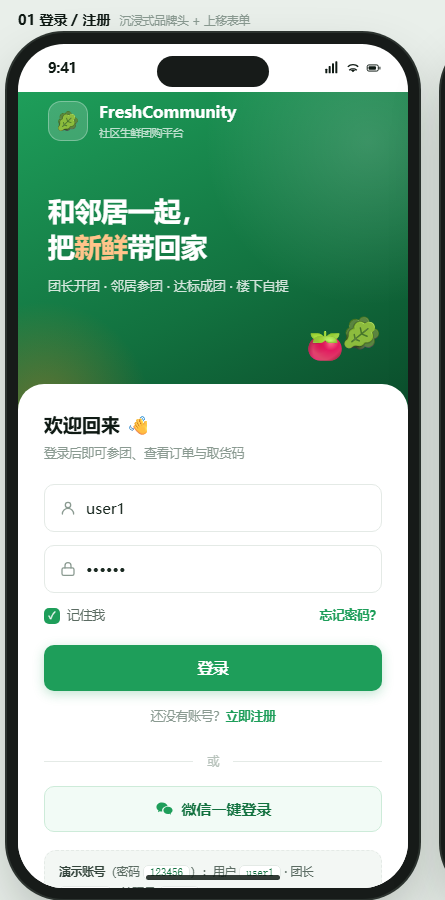
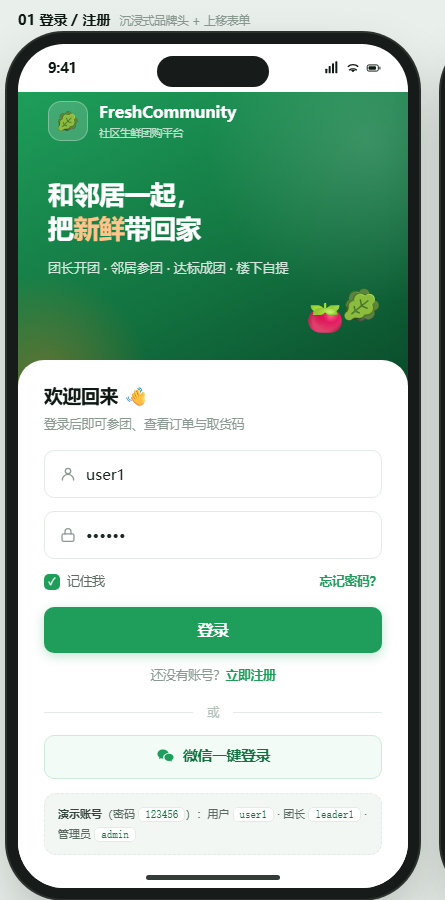
docs(ui): 补充设计方案移动端章节并修正两处设计问题
- design-spec.md 新增第 8 章「移动端适配设计」：与桌面端的结构差异对照、
  4 个移动端独有设计、11 屏清单、落地要点（768px 断点 / 安全区 / :active 反馈）
- 修正登录页：压缩 hero 高度与各处间距，底部「演示账号」框不再被 844px 裁切
- 修正确认下单页：金额明细改为自洽（原价 ¥39.80 − 优惠 ¥14.00 = ¥25.80）
- 预览图：新增消息中心单屏图，清理两张重复文件

diff --git a/docs/ui-design/design-spec.md b/docs/ui-design/design-spec.md
@@ -183,18 +183,74 @@
 
 ---
 
-## 8. 交付物
+## 8. 移动端适配设计（390 × 844）
 
-| 文件 | 说明 |
-| --- | --- |
-| `docs/ui-design/prototype.html` | **高保真可交互原型**，含设计系统与 11 个关键界面，顶部标签可切换，双击即可在浏览器打开 |
-| `docs/ui-design/design-spec.md` | 本文档 —— 设计依据、原则、规范与落地建议 |
+> 配套原型见 [`prototype-mobile.html`](./prototype-mobile.html)
+
+### 8.1 为什么移动端才是主战场
+
+社区团购的真实链路是：**团长在微信群里发链接 → 邻居在手机上点开 → 当场决定跟不跟 → 线下到店自提时掏手机出示取货码**。四个关键动作里有三个发生在手机上。桌面端更像是团长和管理员的后台工具。因此移动端不是"缩小版桌面端"，需要独立设计。
+
+### 8.2 移动端与桌面端的结构差异
+
+| 维度 | 桌面端 | 移动端 |
+| --- | --- | --- |
+| 导航 | 左侧 236px 固定侧边栏 | **底部 Tab Bar**（用户/团长 4 项，管理 3 项） |
+| 顶部 | 面包屑 + 全局搜索 + 铃铛 | **沉浸式绿头**：定位 + 搜索 + 铃铛，渐变延伸至状态栏 |
+| 卡片 | 3 列网格 | **单列**，横向滚动承载"马上成团" |
+| 主操作 | 卡片内按钮 | **底部固定操作栏**（含安全区内边距） |
+| 商品图 | 132–340px | 详情页 288px 全宽，列表 86px 缩略 |
+| 触摸目标 | 32–38px | **≥ 44px**（按钮 46px，Tab 项 58px） |
+
+### 8.3 移动端独有的四个关键设计
+
+**① 取货码全屏页（第 06 屏）** —— 整个流程的终点。深绿背景 + 白色票据卡，6 位码用 26px 等宽字体撑满一行，下方二维码 150px。票据分割线做了**票根缺口**（两侧半圆挖空）的细节，强化"凭证感"。底部提示"屏幕亮度已自动调高"，对应线下扫码的真实痛点。
+
+**② 核销台用自定义数字键盘（第 10 屏）** —— 团长在店里、嘈杂、可能单手抱货。系统键盘会弹起遮挡输入框，且按键太小。改为**内嵌 3×4 大键盘**（按键高度 ~78px），并带"清空 / 退格 / 确认核销"三个功能键。顶部常驻"当前核销团购"选择器，避免核销到错误的团。
+
+**③ 首页沉浸式头部 + 上移卡片** —— 绿色渐变头部延伸到状态栏，下方内容区用 `margin-top:-46px` + `border-radius:22px 22px 0 0` 上移覆盖，形成层次。这是移动端最常见的"内容压住品牌色"手法。
+
+**④ 订单卡内嵌迷你取货码** —— 列表里就能看到 6 位码，不必进详情。待支付订单则在卡片底部直接给出"剩 14 分 32 秒"的倒计时，对应后端 30 分钟超时关单逻辑。
+
+### 8.4 移动端界面清单（11 屏）
+
+| 分组 | 屏 | 说明 |
+| --- | --- | --- |
+| 用户端 | 01 登录/注册 | 沉浸式品牌头 + 上移表单 + 微信一键登录位 |
+| 用户端 | 02 团购广场 | 沉浸头部 + 分类入口 + 横滚"马上成团" + 单列卡片 |
+| 用户端 | 03 团购详情 | 大图 + 进度卡前置 + 团长卡 + 底部固定 CTA |
+| 用户端 | 04 确认下单 | 数量步进 + 提货点 + 金额明细 + 退款承诺 |
+| 用户端 | 05 我的订单 | 状态 Tab + 订单卡 + 内嵌取货码 + 支付倒计时 |
+| 用户端 | 06 取货码全屏 | 票据化凭证 + 二维码 + 提货信息 |
+| 用户端 | 07 消息中心 | 五类事件图标化 + 未读高亮 + 分类 chips |
+| 用户端 | 08 我的 | 身份卡 + 三项数据 + 功能分组列表 |
+| 团长端 | 09 工作台 | 经营数据 + **待核销待办卡** + 团购列表（差几人 / 核销数） |
+| 团长端 | 10 核销台 | 自定义数字键盘 + 当前团购选择器 |
+| 管理端 | 11 数据看板 | KPI 2×2 + 趋势折线 + 状态分布 + 最近订单 |
+
+### 8.5 落地要点
+
+- **响应式断点**：建议 `< 768px` 走移动布局，`≥ 768px` 走桌面布局；同一套组件通过 CSS 变量与条件渲染切换，而非维护两套页面。
+- **必须处理**：`viewport-fit=cover` + `env(safe-area-inset-bottom)`（Tab Bar 与底部操作栏都要加），否则 iPhone 底部横条会压住按钮。
+- **触摸反馈**：移动端没有 hover，所有可点元素需有 `:active` 态（缩放 0.97 或背景加深）。
+- **性能**：图片走 `loading="lazy"`，列表用虚拟滚动或分页（商品 16 个暂不需要，但团购会增长）。
+- **微信内分享**：参团链接应支持 `?groupBuyId=` 直达详情页，登录后回到原页面。
 
 ---
 
-## 9. 后续可做
+## 9. 交付物
 
-- 补充**移动端（390px）**适配稿 —— 社区团购的真实使用场景大量在手机端（微信群分享 → 点开参团）。
-- 补充**空状态 / 骨架屏 / 错误态**的视觉稿。
+| 文件 | 说明 |
+| --- | --- |
+| `docs/ui-design/prototype.html` | **桌面端高保真原型**，含设计系统与 11 个关键界面，顶部标签分组切换，支持 `#界面名` 直达 |
+| `docs/ui-design/prototype-mobile.html` | **移动端高保真原型（390×844）**，11 屏横向排布，顶部可按角色筛选（用户/团长/管理），支持 `#USER` 等直达 |
+| `docs/ui-design/design-spec.md` | 本文档 —— 设计依据、原则、规范与落地建议 |
+| `docs/ui-design/preview/*.png` | 桌面端与移动端界面截图（无头 Chrome 生成，供快速预览） |
+
+---
+
+## 10. 后续可做
+
+- 补充**空状态 / 骨架屏 / 错误态**的视觉稿（两端的列表页都需要）。
 - 输出 **Figma 组件库**（若需团队协作维护）。
-- 将原型落地为 Vue 组件，替换现有 `views/` 下的页面。
+- 将原型落地为 Vue 组件，替换现有 `views/` 下的页面；移动端可用同一套组件 + 响应式断点实现。
